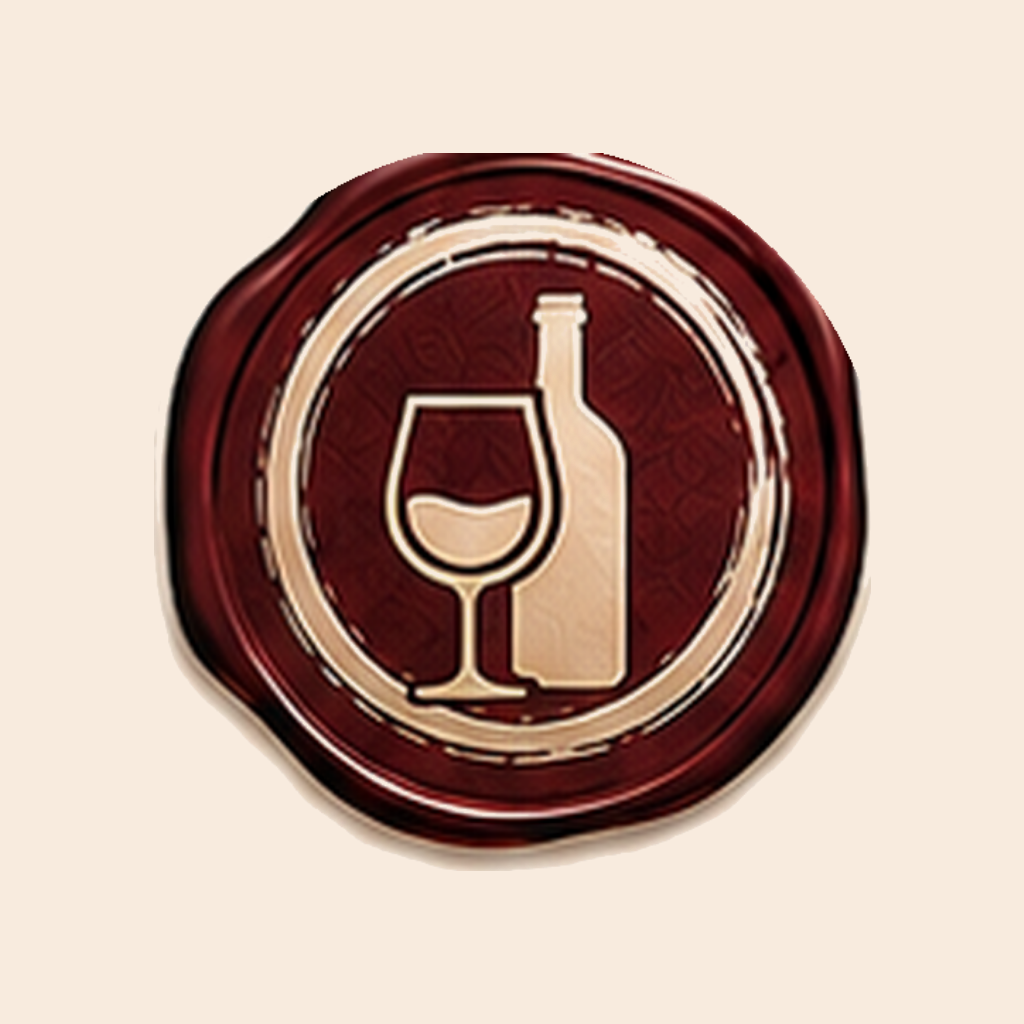
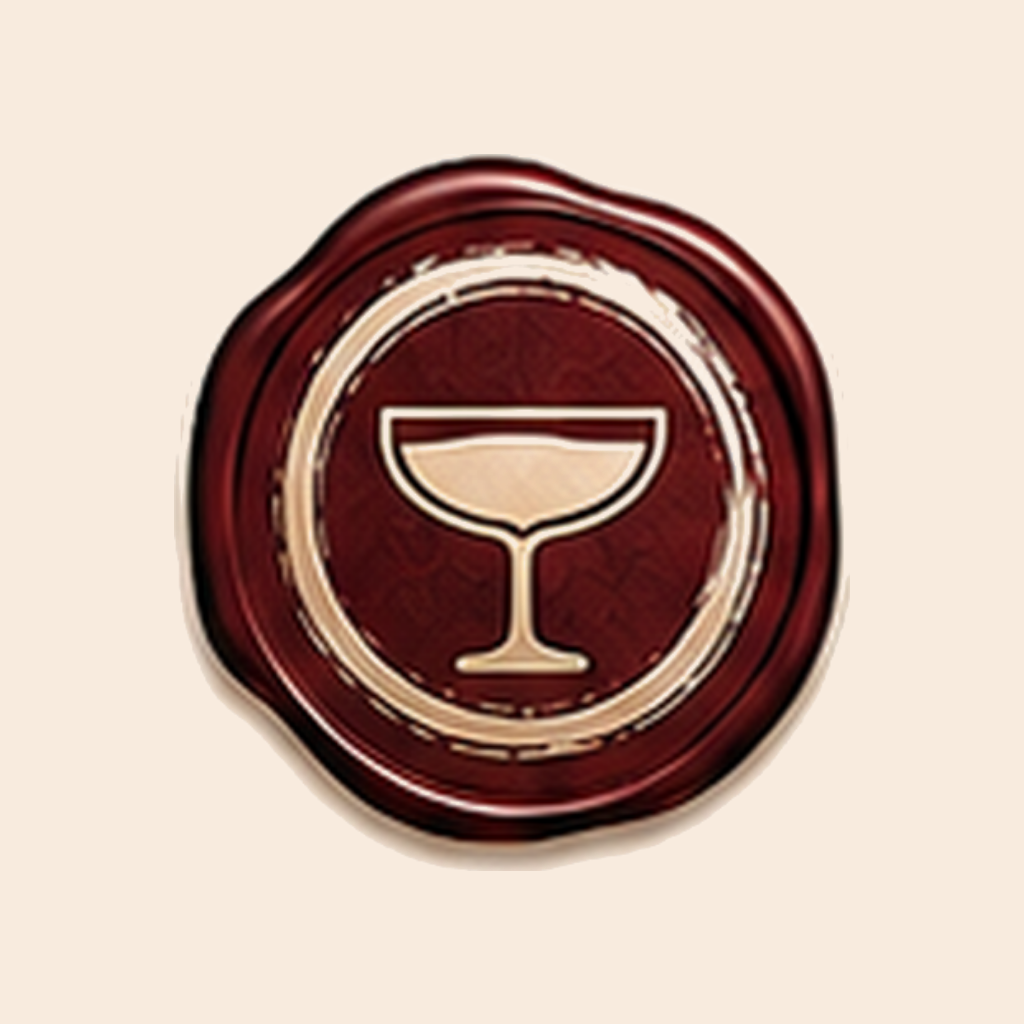
Make the coupe the primary seal, and let PRIMARY choose
The glass-and-bottle keeps its detail to about 60px and goes to an
indistinct dark blob below it. iOS asks for 29 and 20px renders and
Android for 48, so most of the sizes the icon is genuinely read at were
sizes where the mark had already stopped being legible. The coupe is drawn
with fewer strokes and still reads as a bowl at 29. Rendered both under the
real corner and circle masks at 120/87/60/48/40/29/20 before choosing.

The glass-and-bottle is not deleted and is not demoted on the sheet — it is
still the emblem of both lockups, and mark-seal-bottle.png is still cut. It
is a poor APP ICON, which is a different job from being the brand's mark.

Marks are now named for the artwork rather than the role, so neither is
"the" seal: mark-seal-bottle{,-mono}.png and mark-seal-coupe{,-mono}.png.
PRIMARY in build-icons.mjs picks between them and every raster follows.

extract-brand-marks.mjs states each seal's geometry once and derives both
its colour master and its mono cut, where before the primary's rect and
guard were written out twice and could drift apart with nothing to catch
it. Both seals are painted from the same two tones — 72% wax, 24% gilt,
under 4% in the ramp between, measured on each — so one pair of knockout
thresholds cuts either.

icon.html cannot read PRIMARY: it is screenshotted as it sits on disk
rather than templated, which makes it the one place the choice can
disagree with itself. A half-swapped set — coupe on iOS, glass-and-bottle
[…]

Changed region(s): [[0.125, 0.125, 0.875, 0.8438]]

diff --git a/scripts/icon/icon.html b/scripts/icon/icon.html
@@ -14,7 +14,15 @@
       /*
         Sipply app icon.
 
-        The wax seal from the brand sheet, on the sheet's own cream. The
+        The coupe seal from the brand sheet, on the sheet's own cream. The
+        sheet draws two seals; this is the one with fewer strokes in it,
+        which is what an icon needs — the glass-and-bottle keeps its detail
+        down to about 60px and turns to a smudge below that, and the sizes
+        an icon is actually read at start at 29. `PRIMARY` in
+        build-icons.mjs selects between them and is checked against this
+        file, so the two cannot drift apart.
+
+        The
         seal is struck in wine over gilt, so it needs a light ground to
         read at all — laid on the wine the rest of the app is built from,
         it goes to a dark smudge with a gold scratch in it. Cream is not a
@@ -32,10 +40,10 @@
         shows the seam. Square and fully opaque, which is also what App
         Store Connect requires.
 
-        The mark is 70% of the canvas. The wax blob is irregular, so the
-        percentage is measured off its bounding box — the widest lobes sit
-        a little proud of a true circle at that size, which is what keeps
-        it looking stamped rather than printed.
+        The mark is 70% of the canvas, measured on its longer edge. The wax
+        blob is irregular, so the percentage is taken off its bounding box —
+        the widest lobes sit a little proud of a true circle at that size,
+        which is what keeps it looking stamped rather than printed.
       */
       .icon {
         width: 1024px;
@@ -46,13 +54,22 @@
         justify-content: center;
       }
       .mark {
+        /*
+          A square box with contain, not a width. The two seals are not the
+          same shape — the coupe is 410x435 and the glass-and-bottle is
+          507x508 — so setting width alone makes the portrait one render
+          taller than the square one and sit heavier in the tile at the
+          same nominal scale. Fitting the longer edge makes 0.70 mean one
+          thing whichever seal PRIMARY selects.
+        */
         width: 717px; /* 0.70 × 1024 */
-        height: auto;
+        height: 717px;
+        object-fit: contain;
         display: block;
       }
     </style>
   </head>
   <body>
-    <div class="icon"><img class="mark" src="mark-seal.png" /></div>
+    <div class="icon"><img class="mark" src="mark-seal-coupe.png" /></div>
   </body>
 </html>
